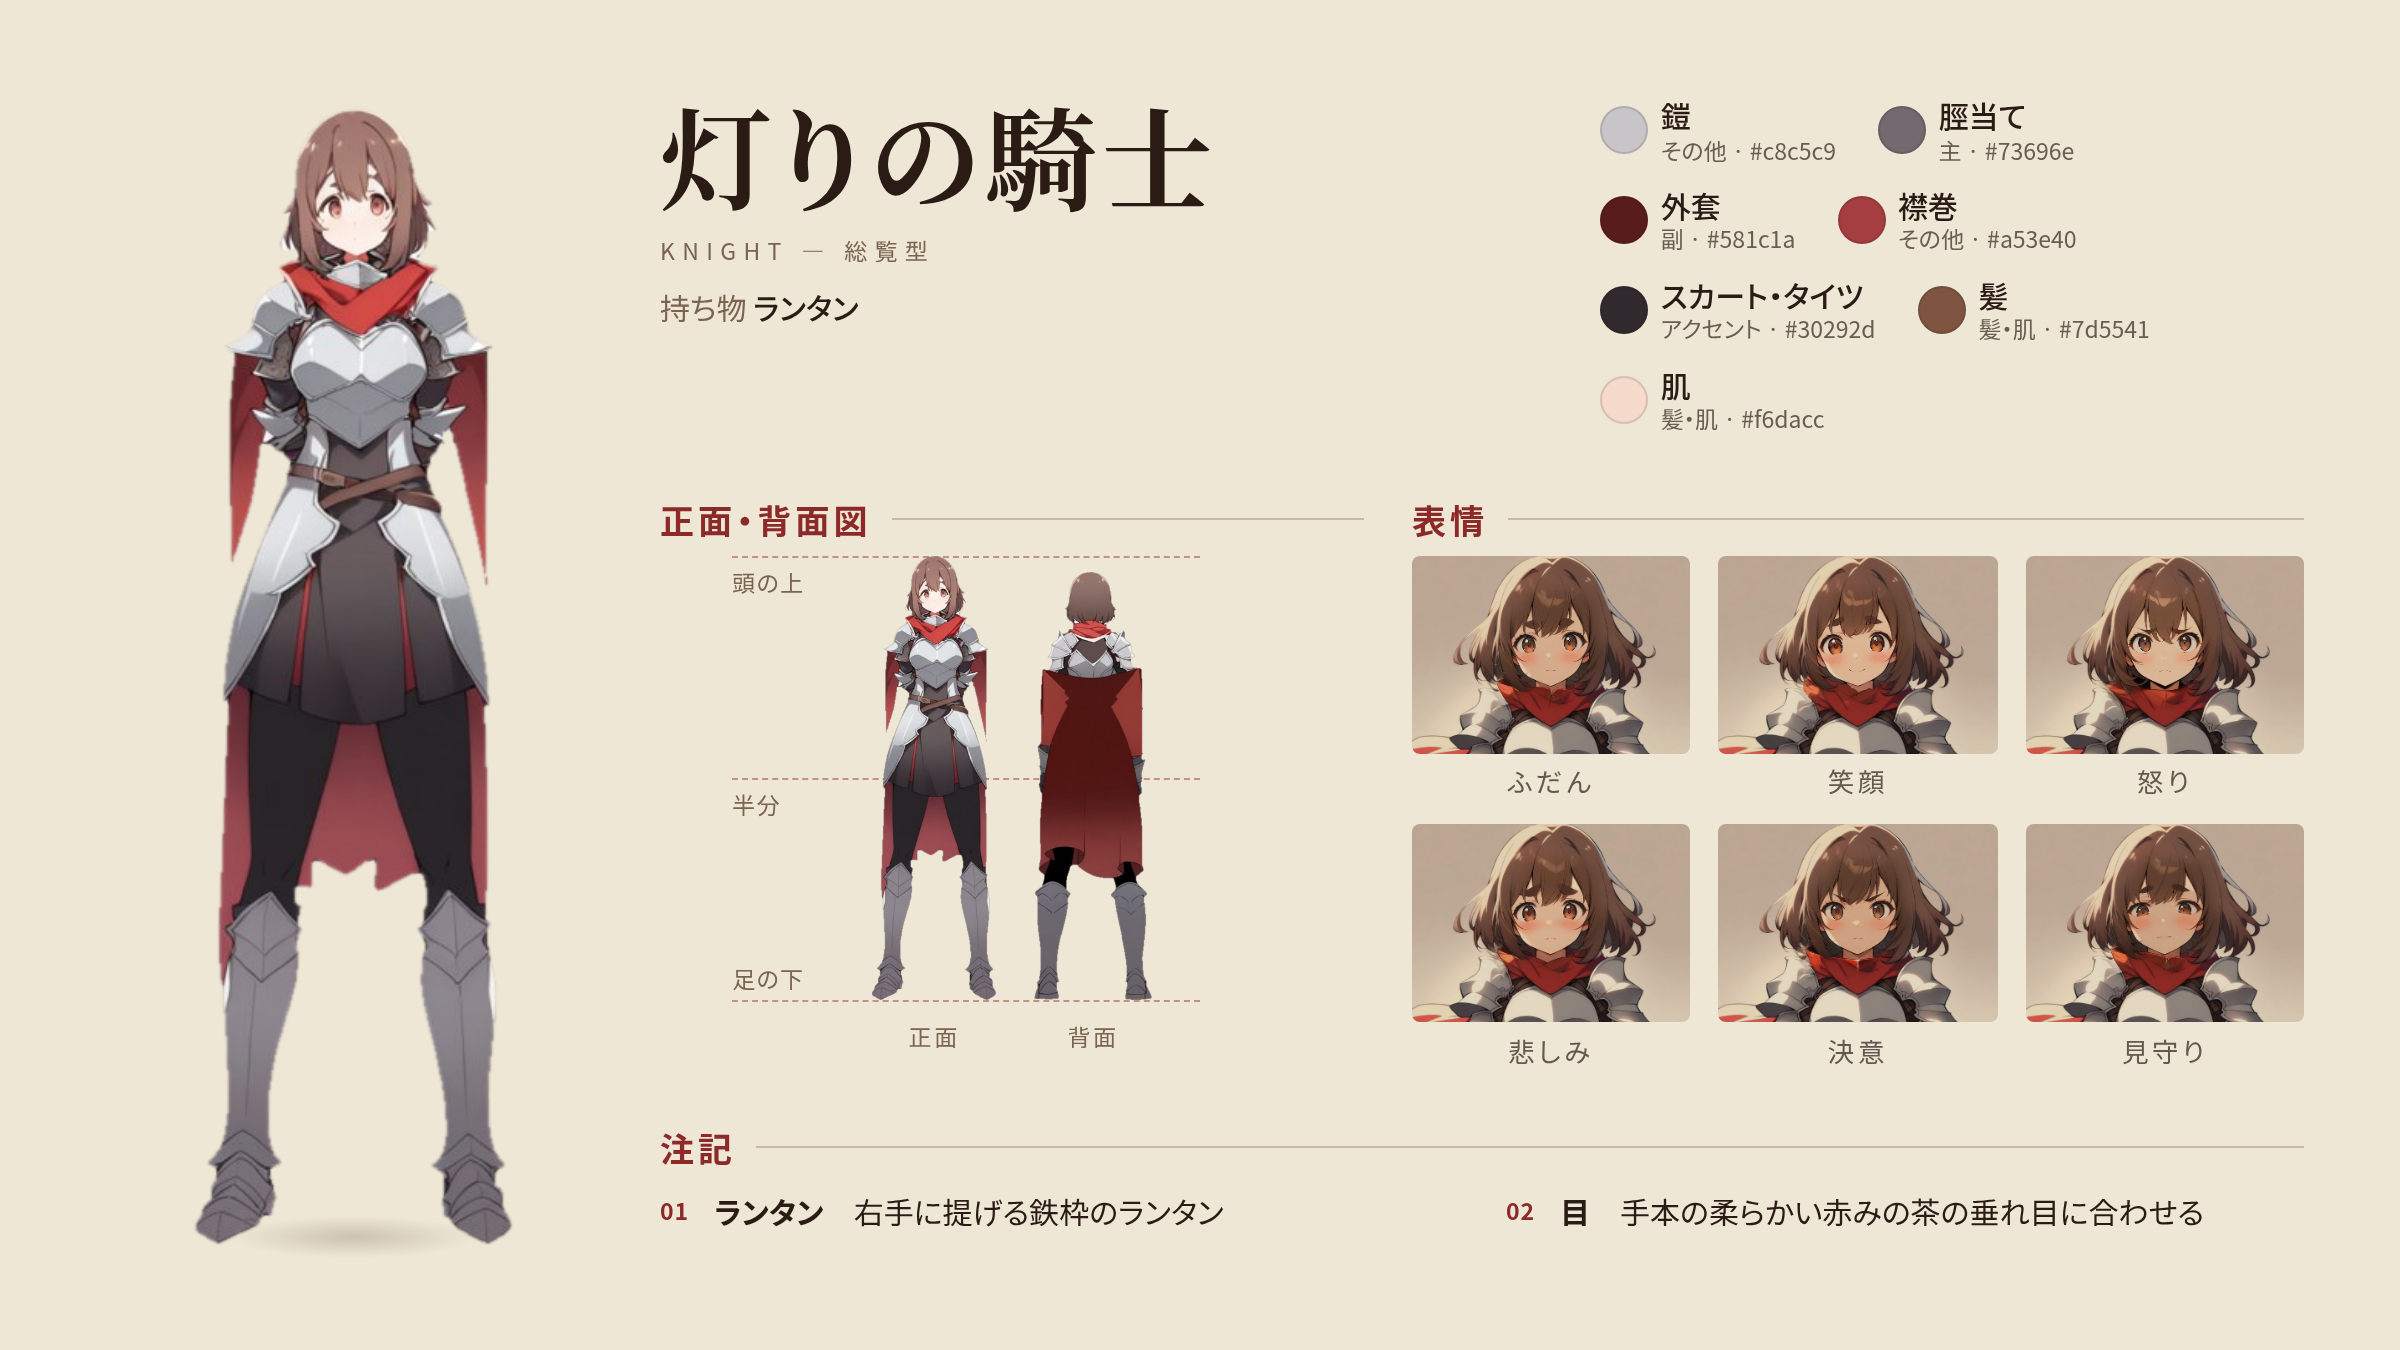
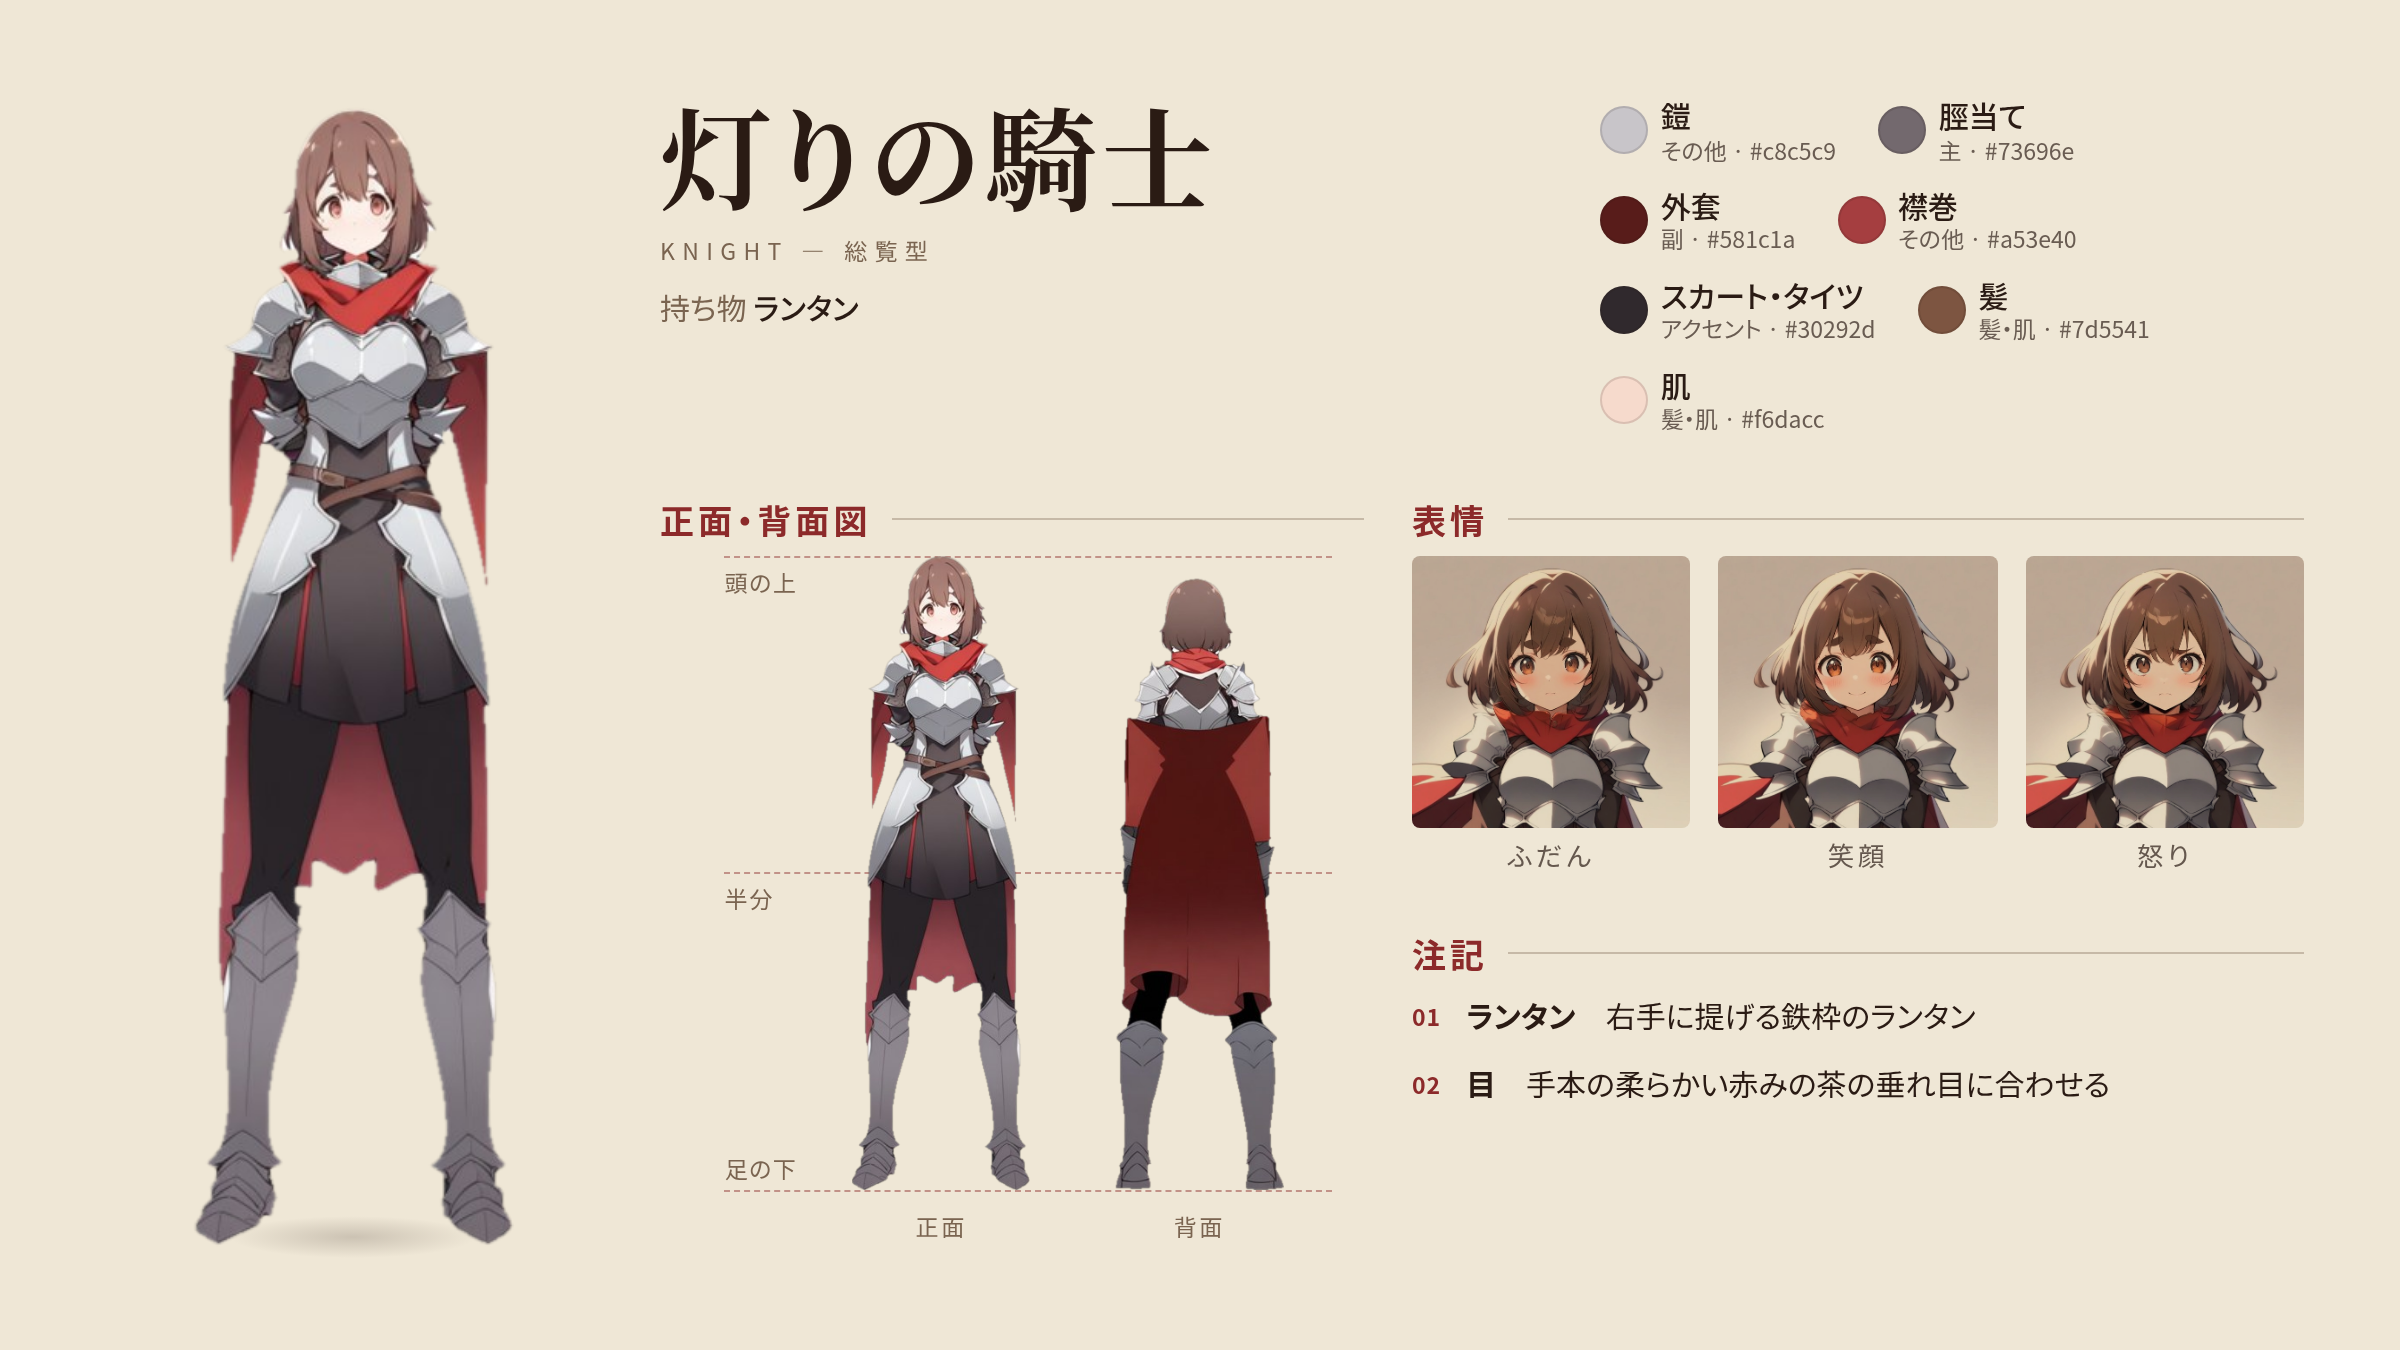
設定画集の版を批評の3周目の指摘で直す
総覧型は四面図を2段にわたって大きくし、表情は 3 つを縦長の枠に、注記は短く切る。
高さの線の名前の幅を人物の左に空ける。拡大は顔を正方形、目を横長の枠にする。

Claude-Session: https://claude.ai/code/session_01SckJ2FC4PhB88prMhjDTEV

diff --git a/tools/gen/sheetlayout.py b/tools/gen/sheetlayout.py
@@ -180,6 +180,8 @@ body{background:var(--page);color:var(--ink);font-family:var(--font);font-weight
 .sleg .chip i{width:calc(var(--t-note) * 1.1);height:calc(var(--t-note) * 1.1)}
 .strip{display:flex;height:calc(var(--t-body) * 0.9);border-radius:99px;overflow:hidden}
 .calls{display:grid;grid-template-columns:1fr 1.6fr;gap:var(--fg)}
+.calls{grid-template-columns:auto 1fr !important}
+.call:first-child .im{aspect-ratio:1}
 .call .im{height:var(--callh);background:var(--tile);border-radius:var(--radius);overflow:hidden}
 .call img{width:100%;height:100%;object-fit:cover;mix-blend-mode:multiply;display:block}
 .call p{font-size:var(--t-note);color:var(--sub);margin-top:.5em;letter-spacing:.1em}
@@ -192,8 +194,9 @@ JS = r"""
   for (const box of document.querySelectorAll('.fit')) {
     const img = box.querySelector('img'); if (!img) continue;
     const W = box.clientWidth, H = box.clientHeight - (box.dataset.cap ? parseFloat(getComputedStyle(document.body).getPropertyValue('--t-note')) * 2.8 : 0);
-    const s = Math.min(W / img.naturalWidth, H / img.naturalHeight);
-    const w = img.naturalWidth * s, h = img.naturalHeight * s, x = (W - w) / 2, y = H - h;
+    const L = box.dataset.guides ? 56 : 0;   // 高さの線の名前を置く幅。人物と重ならないよう左に空けておく
+    const s = Math.min((W - L) / img.naturalWidth, H / img.naturalHeight);
+    const w = img.naturalWidth * s, h = img.naturalHeight * s, x = L + (W - L - w) / 2, y = H - h;
     Object.assign(img.style, {left: x + 'px', top: y + 'px', width: w + 'px', height: h + 'px'});
     if (box.dataset.shadow) {
       const sh = document.createElement('div'); sh.className = 'shadow';
@@ -210,7 +213,7 @@ JS = r"""
       for (const [name, t] of [['頭の上', 0], ['半分', 0.5], ['足の下', 1]]) {
         // 線は人物の左右に少し出すだけにする。区画の幅いっぱいに引くと、2人だけの図で左右の空きが目立った
         const g = document.createElement('div'); g.className = t === 1 ? 'guide up' : 'guide'; g.style.top = (y + h * t) + 'px';
-        g.style.left = Math.max(0, x - 70) + 'px'; g.style.right = Math.max(0, W - x - w - 24) + 'px';
+        g.style.left = Math.max(0, x - 64) + 'px'; g.style.right = Math.max(0, W - x - w - 24) + 'px';
         g.innerHTML = `<span>${name}</span>`; box.insertBefore(g, img);
       }
     }
@@ -293,10 +296,11 @@ def _panel_html(pn, ctx):
         notes = ctx["notes"]
         if pn.get("brief"):   # 総覧では各注記の最初の一文だけにする。全文は作画用の版に載せる（狭い欄に全文を詰めると欄からあふれた）
             notes = [t.split("。")[0] for t in notes]
+            notes = [t if len(t) <= 24 else t[:23] + "…" for t in notes]
         lis = "".join(f'<li><span><b>{e(t.split(": ", 1)[0])}</b>　{e(t.split(": ", 1)[1] if ": " in t else "")}</span></li>' for t in notes)
         if pn.get("columns"):
-            # 2段に組み、長い注記（60字より長い）だけ全幅の1段にする。段組みに流すと左右の段の行数が偏った
-            lis = "".join(f'<li{" class=wide" if len(t) > 60 else ""}><span><b>{e(t.split(": ", 1)[0])}</b>　{e(t.split(": ", 1)[1] if ": " in t else "")}</span></li>'
+            # 2段に組み、長い注記（40字より長い）と、2項目以下のときは全幅の1段にする。段組みに流すと左右の段の行数が偏った
+            lis = "".join(f'<li{" class=wide" if len(t) > 40 or len(notes) <= 2 else ""}><span><b>{e(t.split(": ", 1)[0])}</b>　{e(t.split(": ", 1)[1] if ": " in t else "")}</span></li>'
                           for t in notes)
             return lab(pn.get("title", "")) + f'<ol class="notes" style="display:grid;grid-template-columns:repeat({pn["columns"]},1fr);column-gap:var(--g)">{lis}</ol>'
         return lab(pn.get("title", "")) + f'<ol class="notes">{lis}</ol>'
@@ -318,7 +322,7 @@ def _panel_html(pn, ctx):
     raise ValueError(f"欄の種類 {k} は組めません")
 
 
-def _row(figs, gap=0.32):
+def _row(figs, gap=0.5):
     """人物を同じ縮尺のまま横一列に並べた1枚と、各人物の中心の横位置（幅に対する割合）を返す。
     1枚にまとめるのは、区画に収めるときに全員を同じ倍率で縮めるため（別々に収めると縮尺がずれた）"""
     from PIL import Image
